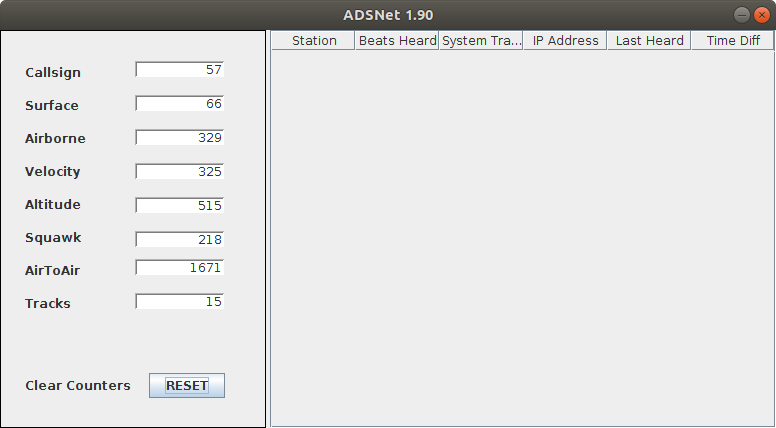
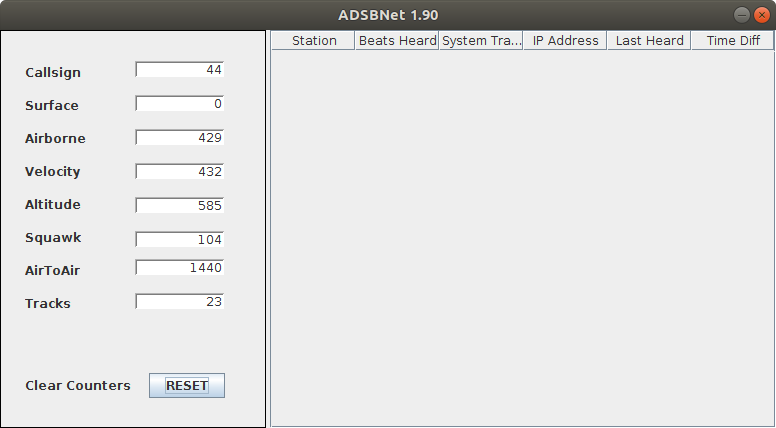
Add GUI screenshot

diff --git a/src/adsbnet/GUI.java b/src/adsbnet/GUI.java
@@ -192,7 +192,7 @@ public final class GUI extends JFrame {
         jTable1 = new javax.swing.JTable();
 
         setDefaultCloseOperation(javax.swing.WindowConstants.EXIT_ON_CLOSE);
-        setTitle("ADSNet 1.90");
+        setTitle("ADSBNet 1.90");
         setBounds(new java.awt.Rectangle(300, 300, 0, 0));
         setResizable(false);
 
